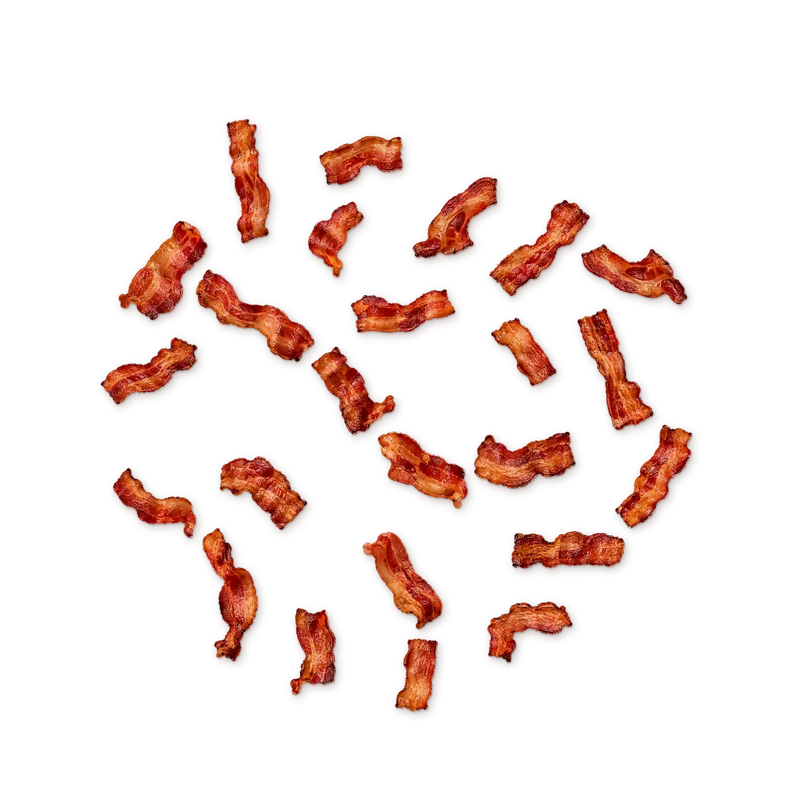
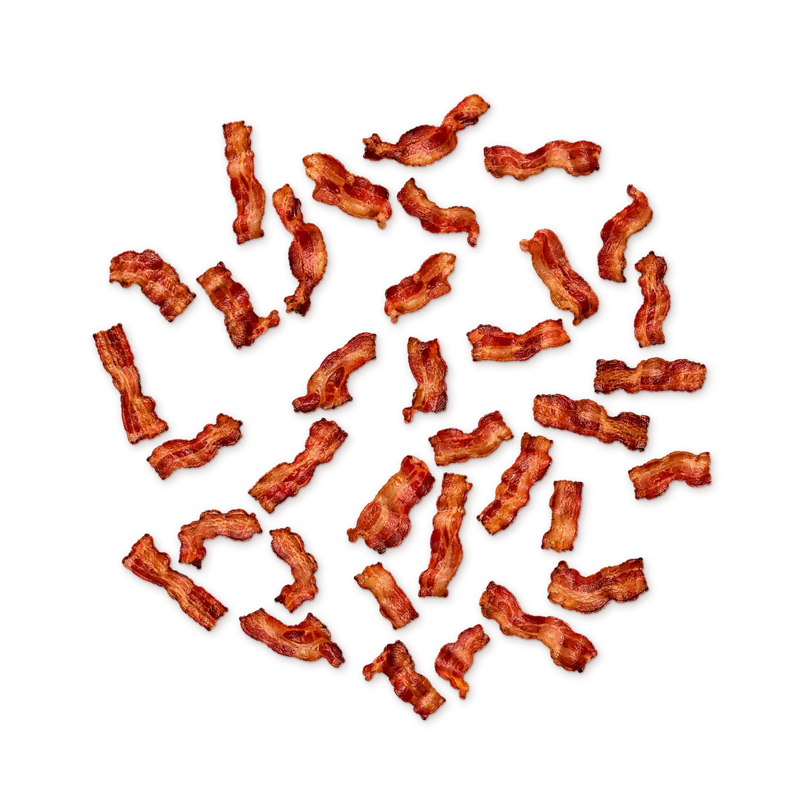
Pizza: foto nueva de tocineta
Claude-Session: https://claude.ai/code/session_01DxqiBbKBv4wDbq6rgi9yCV

Changed region(s): [[0.0938, 0.125, 0.9062, 0.9062]]

diff --git a/Pages/pizza.html b/Pages/pizza.html
@@ -7,8 +7,8 @@
 <link rel="icon" href="../IMG/Logo-taz.png" type="image/png">
 <title>Pizza · TAZ Fast Food</title>
 <link href="https://fonts.googleapis.com/css2?family=Anton&family=Nunito:wght@500;700;800&display=swap" rel="stylesheet">
-<link rel="stylesheet" href="../Styles/pizza.css?v=36">
-<link rel="stylesheet" href="../Styles/checkout.css?v=36">
+<link rel="stylesheet" href="../Styles/pizza.css?v=37">
+<link rel="stylesheet" href="../Styles/checkout.css?v=37">
 </head>
 <body>
 <header class="top">
@@ -72,16 +72,16 @@
     <section class="step">
       <h3><i>1</i><span id="espTitle">Especialidad</span></h3>
       <div class="opts opts-base">
-      <button class="op" type="button" data-g="base" data-i="0" data-img="../IMG/Pizzas/hawaiana.webp?v=36" data-pz="13,19,24" data-tp="🍍 🧀 🥓" aria-pressed="false"><em>🍕</em><span class="tx"><b>Hawaiana</b><small>Piña, queso rayado, jamón (opcional cerezas)</small></span><span class="pr">$13.00</span></button>
-      <button class="op" type="button" data-g="base" data-i="1" data-img="../IMG/Pizzas/pepperoni.webp?v=36" data-pz="13,19,24" data-tp="🔴 🧀 🥓" aria-pressed="false"><em>🍕</em><span class="tx"><b>Pepperoni</b><small>Pepperoni, queso y jamón</small></span><span class="pr">$13.00</span></button>
-      <button class="op" type="button" data-g="base" data-i="2" data-img="../IMG/Pizzas/tropical.webp?v=36" data-pz="15,22,26" data-tp="🍍 🍒 🍑 🥓 🧀" aria-pressed="false"><em>🍕</em><span class="tx"><b>Tropical</b><small>Piña, cereza, durazno, jamón, queso y salsa de la casa</small></span><span class="pr">$15.00</span></button>
-      <button class="op" type="button" data-g="base" data-i="3" data-img="../IMG/Pizzas/ay-dios-mio.webp?v=36" data-pz="15,22,28" data-tp="🍗 🍄 🧀" aria-pressed="false"><em>🍕</em><span class="tx"><b>Ay Dios Mío</b><small>Pollo desmechado, champiñones, jamón, queso rayado y salsa de la casa</small></span><span class="pr">$15.00</span></button>
-      <button class="op" type="button" data-g="base" data-i="4" data-img="../IMG/Pizzas/californiana.webp?v=36" data-pz="16,24,29" data-tp="🍗 🍄 🦐 🥓 🧀 🌶" aria-pressed="false"><em>🍕</em><span class="tx"><b>Californiana</b><small>Pollo desmechado, champiñones, camarones, jamón, pimentón rojo y verde, queso rayado y salsa de la casa</small></span><span class="pr">$16.00</span></button>
-      <button class="op" type="button" data-g="base" data-i="5" data-img="../IMG/Pizzas/mexicana.webp?v=36" data-pz="16,24,29" data-tp="🥩 🥓 🧀 🌶 🧅" aria-pressed="false"><em>🍕</em><span class="tx"><b>Mexicana</b><small>Carne desmechada, jamón, queso rayado, pimentón, cebolla, salsa picosa de la casa y tocineta</small></span><span class="pr">$16.00</span></button>
-      <button class="op" type="button" data-g="base" data-i="6" data-img="../IMG/Pizzas/camarones.webp?v=36" data-pz="20,26,32" data-tp="🦐 🥓 🧀 🌶" aria-pressed="false"><em>🍕</em><span class="tx"><b>Camarones</b><small>Camarones, jamón, queso rayado, pimentón y salsa de la casa</small></span><span class="pr">$20.00</span></button>
-      <button class="op" type="button" data-g="base" data-i="7" data-img="../IMG/Pizzas/la-4k.webp?v=36" data-pz="22,28,34" data-tp="🥓 🌭 🧀 🥩" aria-pressed="false"><em>🍕</em><span class="tx"><b>La 4K</b><small>Jamón, carne de res, pollo, chorizo, tocino y queso rayado</small></span><span class="pr">$22.00</span></button>
-      <button class="op" type="button" data-g="base" data-i="8" data-img="../IMG/Pizzas/legendaria.webp?v=36" data-pz="16,22,28" data-tp="🥩 🌽 🥓 🌶 🧀" aria-pressed="false"><em>🍕</em><span class="tx"><b>Legendaria</b><small>Carne molida, maíz, tocino, pimiento, jamón, queso y salsa de la casa</small></span><span class="pr">$16.00</span></button>
-      <button class="op cartel" type="button" data-g="base" data-i="9" data-img="../IMG/Pizzas/base-queso.webp?v=36" data-pz="10,15,19" data-custom="1" aria-pressed="false"><em><i class="blank" aria-hidden="true"></i></em><span class="tx"><span class="tag">¡Nueva!</span><b>Pizza a tu gusto</b><small>Empieza con una pizza en blanco (masa y queso) y ponle todos los ingredientes que quieras.</small></span><span class="pr">$10.00</span></button>
+      <button class="op" type="button" data-g="base" data-i="0" data-img="../IMG/Pizzas/hawaiana.webp?v=37" data-pz="13,19,24" data-tp="🍍 🧀 🥓" aria-pressed="false"><em>🍕</em><span class="tx"><b>Hawaiana</b><small>Piña, queso rayado, jamón (opcional cerezas)</small></span><span class="pr">$13.00</span></button>
+      <button class="op" type="button" data-g="base" data-i="1" data-img="../IMG/Pizzas/pepperoni.webp?v=37" data-pz="13,19,24" data-tp="🔴 🧀 🥓" aria-pressed="false"><em>🍕</em><span class="tx"><b>Pepperoni</b><small>Pepperoni, queso y jamón</small></span><span class="pr">$13.00</span></button>
+      <button class="op" type="button" data-g="base" data-i="2" data-img="../IMG/Pizzas/tropical.webp?v=37" data-pz="15,22,26" data-tp="🍍 🍒 🍑 🥓 🧀" aria-pressed="false"><em>🍕</em><span class="tx"><b>Tropical</b><small>Piña, cereza, durazno, jamón, queso y salsa de la casa</small></span><span class="pr">$15.00</span></button>
+      <button class="op" type="button" data-g="base" data-i="3" data-img="../IMG/Pizzas/ay-dios-mio.webp?v=37" data-pz="15,22,28" data-tp="🍗 🍄 🧀" aria-pressed="false"><em>🍕</em><span class="tx"><b>Ay Dios Mío</b><small>Pollo desmechado, champiñones, jamón, queso rayado y salsa de la casa</small></span><span class="pr">$15.00</span></button>
+      <button class="op" type="button" data-g="base" data-i="4" data-img="../IMG/Pizzas/californiana.webp?v=37" data-pz="16,24,29" data-tp="🍗 🍄 🦐 🥓 🧀 🌶" aria-pressed="false"><em>🍕</em><span class="tx"><b>Californiana</b><small>Pollo desmechado, champiñones, camarones, jamón, pimentón rojo y verde, queso rayado y salsa de la casa</small></span><span class="pr">$16.00</span></button>
+      <button class="op" type="button" data-g="base" data-i="5" data-img="../IMG/Pizzas/mexicana.webp?v=37" data-pz="16,24,29" data-tp="🥩 🥓 🧀 🌶 🧅" aria-pressed="false"><em>🍕</em><span class="tx"><b>Mexicana</b><small>Carne desmechada, jamón, queso rayado, pimentón, cebolla, salsa picosa de la casa y tocineta</small></span><span class="pr">$16.00</span></button>
+      <button class="op" type="button" data-g="base" data-i="6" data-img="../IMG/Pizzas/camarones.webp?v=37" data-pz="20,26,32" data-tp="🦐 🥓 🧀 🌶" aria-pressed="false"><em>🍕</em><span class="tx"><b>Camarones</b><small>Camarones, jamón, queso rayado, pimentón y salsa de la casa</small></span><span class="pr">$20.00</span></button>
+      <button class="op" type="button" data-g="base" data-i="7" data-img="../IMG/Pizzas/la-4k.webp?v=37" data-pz="22,28,34" data-tp="🥓 🌭 🧀 🥩" aria-pressed="false"><em>🍕</em><span class="tx"><b>La 4K</b><small>Jamón, carne de res, pollo, chorizo, tocino y queso rayado</small></span><span class="pr">$22.00</span></button>
+      <button class="op" type="button" data-g="base" data-i="8" data-img="../IMG/Pizzas/legendaria.webp?v=37" data-pz="16,22,28" data-tp="🥩 🌽 🥓 🌶 🧀" aria-pressed="false"><em>🍕</em><span class="tx"><b>Legendaria</b><small>Carne molida, maíz, tocino, pimiento, jamón, queso y salsa de la casa</small></span><span class="pr">$16.00</span></button>
+      <button class="op cartel" type="button" data-g="base" data-i="9" data-img="../IMG/Pizzas/base-queso.webp?v=37" data-pz="10,15,19" data-custom="1" aria-pressed="false"><em><i class="blank" aria-hidden="true"></i></em><span class="tx"><span class="tag">¡Nueva!</span><b>Pizza a tu gusto</b><small>Empieza con una pizza en blanco (masa y queso) y ponle todos los ingredientes que quieras.</small></span><span class="pr">$10.00</span></button>
       </div>
     </section>
     <section class="step">
@@ -95,15 +95,15 @@
       <div class="catpanel" data-cat="pro" hidden>
         <div class="cathead"><button class="back" type="button">‹ Volver</button><b>🍗 Proteínas</b></div>
         <div class="opts opts-ex">
-          <button class="op" type="button" data-g="ex" data-i="0" data-escala="1.16" data-layer="../IMG/Toppings/capas/queso.webp?v=36" data-p="2" data-cat="pro" aria-pressed="false"><em>🧀</em><span class="tx"><b>Queso extra</b></span><span class="pr">+$2.00</span></button>
-          <button class="op" type="button" data-g="ex" data-i="1" data-escala="1.16" data-layer="../IMG/Toppings/capas/jamon.webp?v=36" data-p="2" data-cat="pro" aria-pressed="false"><em>🍖</em><span class="tx"><b>Jamón</b></span><span class="pr">+$2.00</span></button>
-          <button class="op" type="button" data-g="ex" data-i="2" data-escala="1.16" data-layer="../IMG/Toppings/capas/tocineta.webp?v=36" data-p="2" data-cat="pro" aria-pressed="false"><em>🥓</em><span class="tx"><b>Tocineta</b></span><span class="pr">+$2.00</span></button>
-          <button class="op" type="button" data-g="ex" data-i="3" data-layer="../IMG/Toppings/capas/pepperoni.webp?v=36" data-p="2" data-cat="pro" aria-pressed="false"><em>🔴</em><span class="tx"><b>Pepperoni</b></span><span class="pr">+$2.00</span></button>
-          <button class="op" type="button" data-g="ex" data-i="4" data-layer="../IMG/Toppings/capas/pollo-desmechado.webp?v=36" data-p="2.5" data-cat="pro" aria-pressed="false"><em>🍗</em><span class="tx"><b>Pollo desmechado</b></span><span class="pr">+$2.50</span></button>
-          <button class="op" type="button" data-g="ex" data-i="5" data-escala="1.1" data-layer="../IMG/Toppings/capas/carne-desmechada.webp?v=36" data-p="2.5" data-cat="pro" aria-pressed="false"><em>🥩</em><span class="tx"><b>Carne desmechada</b></span><span class="pr">+$2.50</span></button>
-          <button class="op" type="button" data-g="ex" data-i="6" data-escala="1.07" data-layer="../IMG/Toppings/capas/carne-molida.webp?v=36" data-p="2.5" data-cat="pro" aria-pressed="false"><em>🧆</em><span class="tx"><b>Carne molida</b></span><span class="pr">+$2.50</span></button>
-          <button class="op" type="button" data-g="ex" data-i="7" data-escala="1.16" data-layer="../IMG/Toppings/capas/chorizo.webp?v=36" data-p="2" data-cat="pro" aria-pressed="false"><em><img class="ic" src="../IMG/Toppings/chorizo.webp?v=36" alt=""></em><span class="tx"><b>Chorizo</b></span><span class="pr">+$2.00</span></button>
-          <button class="op" type="button" data-g="ex" data-i="8" data-escala="1.16" data-layer="../IMG/Toppings/capas/camarones.webp?v=36" data-p="3.5" data-cat="pro" aria-pressed="false"><em>🦐</em><span class="tx"><b>Camarones</b></span><span class="pr">+$3.50</span></button>
+          <button class="op" type="button" data-g="ex" data-i="0" data-escala="1.16" data-layer="../IMG/Toppings/capas/queso.webp?v=37" data-p="2" data-cat="pro" aria-pressed="false"><em>🧀</em><span class="tx"><b>Queso extra</b></span><span class="pr">+$2.00</span></button>
+          <button class="op" type="button" data-g="ex" data-i="1" data-escala="1.16" data-layer="../IMG/Toppings/capas/jamon.webp?v=37" data-p="2" data-cat="pro" aria-pressed="false"><em>🍖</em><span class="tx"><b>Jamón</b></span><span class="pr">+$2.00</span></button>
+          <button class="op" type="button" data-g="ex" data-i="2" data-escala="1.16" data-layer="../IMG/Toppings/capas/tocineta.webp?v=37" data-p="2" data-cat="pro" aria-pressed="false"><em>🥓</em><span class="tx"><b>Tocineta</b></span><span class="pr">+$2.00</span></button>
+          <button class="op" type="button" data-g="ex" data-i="3" data-layer="../IMG/Toppings/capas/pepperoni.webp?v=37" data-p="2" data-cat="pro" aria-pressed="false"><em>🔴</em><span class="tx"><b>Pepperoni</b></span><span class="pr">+$2.00</span></button>
+          <button class="op" type="button" data-g="ex" data-i="4" data-layer="../IMG/Toppings/capas/pollo-desmechado.webp?v=37" data-p="2.5" data-cat="pro" aria-pressed="false"><em>🍗</em><span class="tx"><b>Pollo desmechado</b></span><span class="pr">+$2.50</span></button>
+          <button class="op" type="button" data-g="ex" data-i="5" data-escala="1.1" data-layer="../IMG/Toppings/capas/carne-desmechada.webp?v=37" data-p="2.5" data-cat="pro" aria-pressed="false"><em>🥩</em><span class="tx"><b>Carne desmechada</b></span><span class="pr">+$2.50</span></button>
+          <button class="op" type="button" data-g="ex" data-i="6" data-escala="1.07" data-layer="../IMG/Toppings/capas/carne-molida.webp?v=37" data-p="2.5" data-cat="pro" aria-pressed="false"><em>🧆</em><span class="tx"><b>Carne molida</b></span><span class="pr">+$2.50</span></button>
+          <button class="op" type="button" data-g="ex" data-i="7" data-escala="1.16" data-layer="../IMG/Toppings/capas/chorizo.webp?v=37" data-p="2" data-cat="pro" aria-pressed="false"><em><img class="ic" src="../IMG/Toppings/chorizo.webp?v=37" alt=""></em><span class="tx"><b>Chorizo</b></span><span class="pr">+$2.00</span></button>
+          <button class="op" type="button" data-g="ex" data-i="8" data-escala="1.16" data-layer="../IMG/Toppings/capas/camarones.webp?v=37" data-p="3.5" data-cat="pro" aria-pressed="false"><em>🦐</em><span class="tx"><b>Camarones</b></span><span class="pr">+$3.50</span></button>
         </div>
       </div>
       <div class="catpanel" data-cat="veg" hidden>
@@ -149,9 +149,9 @@
 </aside>
 <template id="tpl-item"><div class="it"><div class="row"><b class="nm"></b><span class="pt"></span></div><p class="ln"></p><div class="row"><div class="qty"><button data-c="-1" aria-label="Menos">−</button><span class="qn"></span><button data-c="1" aria-label="Más">+</button></div><button class="x" data-c="del">Quitar</button></div></div></template>
 <div class="toast" id="toast" role="status">Agregado al carrito</div>
-<script src="../JS/cart.js?v=36"></script>
-<script src="../JS/pizza.js?v=36"></script>
-<script src="../JS/toppings.js?v=36"></script>
-<script src="../JS/checkout.js?v=36"></script>
+<script src="../JS/cart.js?v=37"></script>
+<script src="../JS/pizza.js?v=37"></script>
+<script src="../JS/toppings.js?v=37"></script>
+<script src="../JS/checkout.js?v=37"></script>
 </body>
 </html>
